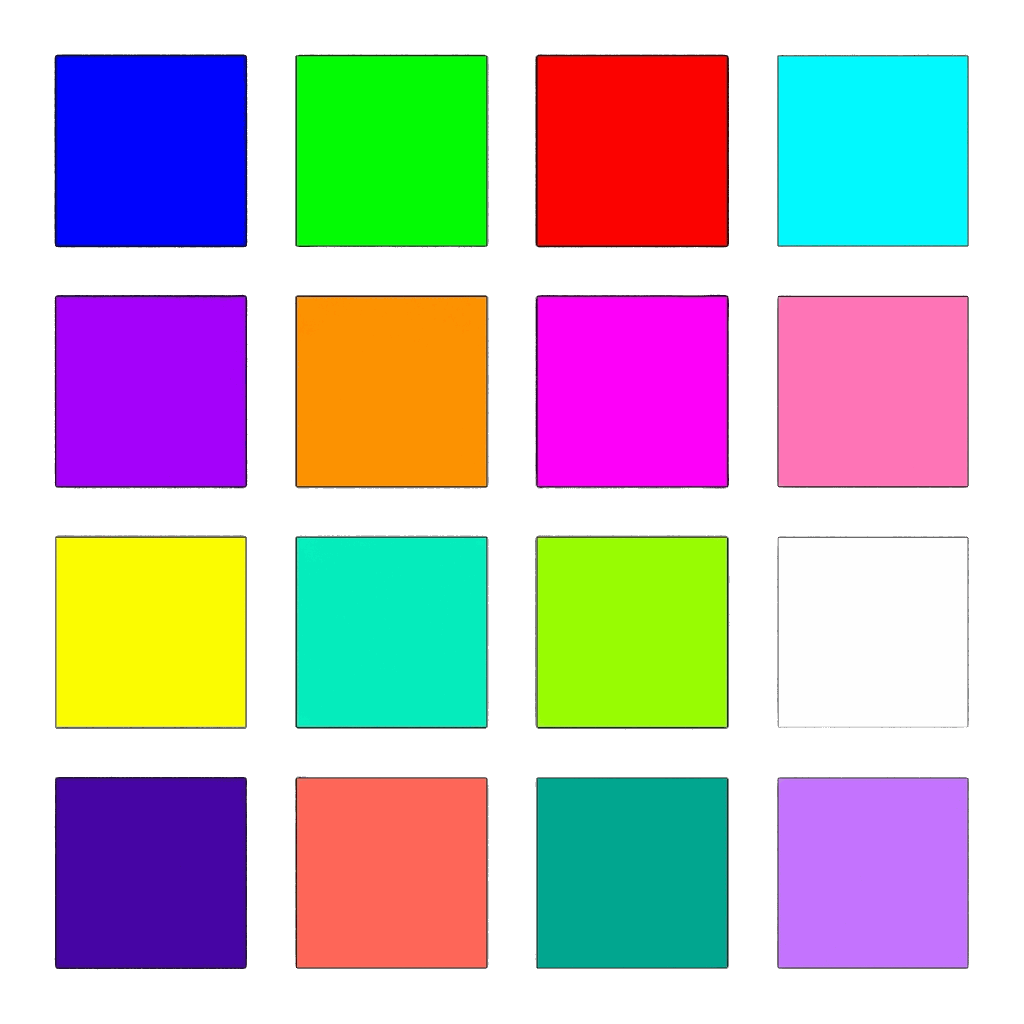
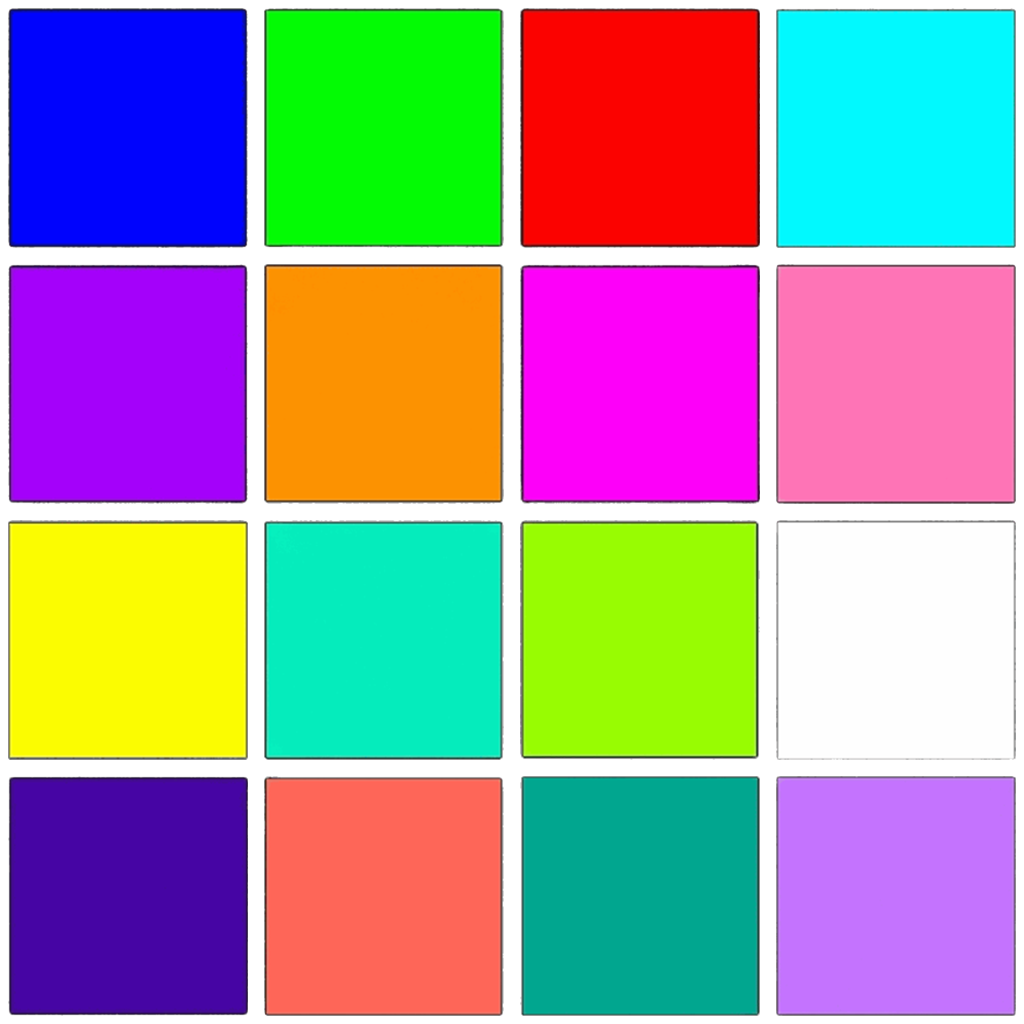
Deploy build

diff --git a/index.html b/index.html
@@ -90,12 +90,12 @@
       letter-spacing: 0.2em;
     }
   </style>
-  <script type="module" crossorigin src="./assets/main-Bnf9AFZd.js"></script>
+  <script type="module" crossorigin src="./assets/main-BAyZqLtj.js"></script>
   <link rel="modulepreload" crossorigin href="./assets/rolldown-runtime-CpWojdLp.js">
   <link rel="modulepreload" crossorigin href="./assets/modulepreload-polyfill-Cf3xff8G.js">
   <link rel="modulepreload" crossorigin href="./assets/dist-DPijVefw.js">
   <link rel="modulepreload" crossorigin href="./assets/phaser-CPZYWpPu.js">
-  <link rel="stylesheet" crossorigin href="./assets/main-DrcIkdKx.css">
+  <link rel="stylesheet" crossorigin href="./assets/main-DtkRRxJZ.css">
 </head>
 
 <body class="bg-black text-white font-['Plus_Jakarta_Sans'] overflow-hidden select-none">

diff --git a/assets/HomeScreenUIController-C23aDBT8.js b/assets/HomeScreenUIController-C23aDBT8.js
@@ -1,0 +1,1 @@
+import{a as e,i as t,n,o as r,s as i,t as a}from"./main-BAyZqLtj.js";var o=class o{static instance;hasEntered=!1;constructor(){}static getInstance(){return o.instance||=new o,o.instance}async show(){let e=document.getElementById(`home-screen`);if(!e){this.enterGame();return}await t.getInstance().isReady();let n=t.getInstance().getProfile();if(n.uid&&!n.isAnonymous){console.log(`[HOME] Authorized session found. Skipping Home Screen.`),this.enterGame(!0);return}this.populateUID(n.uid),e.classList.remove(`exit-up`),e.classList.add(`active`),this.bindEvents()}bindEvents(){this.hasEntered||(document.getElementById(`btn-home-guest`)?.addEventListener(`click`,()=>{this.handleGuestClick()}),document.getElementById(`btn-home-login`)?.addEventListener(`click`,()=>{let e=document.getElementById(`home-screen`);e&&e.classList.remove(`active`),a.getInstance().openAuthModal(!1)}),document.getElementById(`btn-home-copy-uid`)?.addEventListener(`click`,()=>{this.handleCopyUID()}),i.getInstance().on(r.AUTH_STATE_CHANGED,e=>{let{profile:t}=e||{};t&&!t.isAnonymous&&!this.hasEntered&&this.enterGame()}))}populateUID(e){let t=document.getElementById(`home-uid-display`);t&&(t.textContent=e||`NOT_FOUND`)}handleCopyUID(){let r=t.getInstance().getProfile().uid;r&&navigator.clipboard.writeText(r).then(()=>{e.getInstance().playSFX(`ui_click`),n.getInstance().show(`Copied UID to clipboard!`,`success`)}).catch(()=>{n.getInstance().show(`Failed to copy UID.`,`error`)})}async handleGuestClick(){let r=document.getElementById(`btn-home-guest`);if(!(!r||this.hasEntered)){e.getInstance().playSFX(`ui_click`),r.disabled=!0,r.textContent=`CONNECTING...`;try{await t.getInstance().playAsGuest(),this.enterGame()}catch{n.getInstance().show(`Connection failed. Playing offline.`,`error`),this.enterGame()}}}enterGame(e=!1){if(this.hasEntered)return;this.hasEntered=!0;let t=document.getElementById(`home-screen`);t&&(e?(t.classList.remove(`active`),t.style.display=`none`):(t.classList.remove(`active`),t.classList.add(`exit-up`),setTimeout(()=>{t.style.display=`none`},1600)))}};export{o as HomeScreenUIController};

diff --git a/assets/web-DhT8YKZN.js b/assets/web-DhT8YKZN.js
@@ -1,0 +1,1 @@
+import{n as e}from"./dist-DPijVefw.js";import{r as t}from"./main-BAyZqLtj.js";var n;(function(e){e.NOT_REQUIRED=`NOT_REQUIRED`,e.REQUIRED=`REQUIRED`,e.UNKNOWN=`UNKNOWN`})(n||={});var r=class extends e{async initialize(){console.log(`initialize`)}async requestTrackingAuthorization(){console.log(`requestTrackingAuthorization`)}async trackingAuthorizationStatus(){return{status:`authorized`}}async requestConsentInfo(e){return console.log(`requestConsentInfo`,e),{status:t.REQUIRED,isConsentFormAvailable:!0,canRequestAds:!0,privacyOptionsRequirementStatus:n.REQUIRED}}async showPrivacyOptionsForm(){console.log(`showPrivacyOptionsForm`)}async showConsentForm(){return console.log(`showConsentForm`),{status:t.REQUIRED,canRequestAds:!0,privacyOptionsRequirementStatus:n.REQUIRED}}async resetConsentInfo(){console.log(`resetConsentInfo`)}async setApplicationMuted(e){console.log(`setApplicationMuted`,e)}async setApplicationVolume(e){console.log(`setApplicationVolume`,e)}async showBanner(e){console.log(`showBanner`,e)}async hideBanner(){console.log(`hideBanner`)}async resumeBanner(){console.log(`resumeBanner`)}async removeBanner(){console.log(`removeBanner`)}async prepareInterstitial(e){return console.log(`prepareInterstitial`,e),{adUnitId:e.adId}}async showInterstitial(){console.log(`showInterstitial`)}async prepareRewardVideoAd(e){return console.log(e),{adUnitId:e.adId}}async showRewardVideoAd(){return{type:``,amount:0}}async prepareRewardInterstitialAd(e){return console.log(e),{adUnitId:e.adId}}async showRewardInterstitialAd(){return{type:``,amount:0}}};export{r as AdMobWeb};